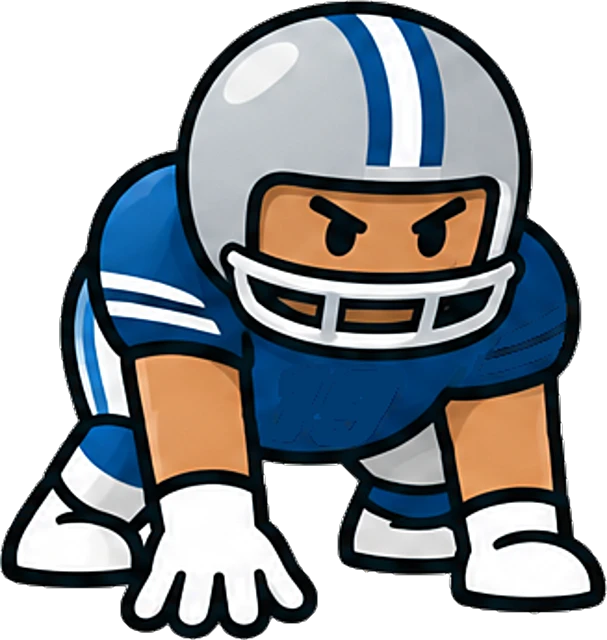
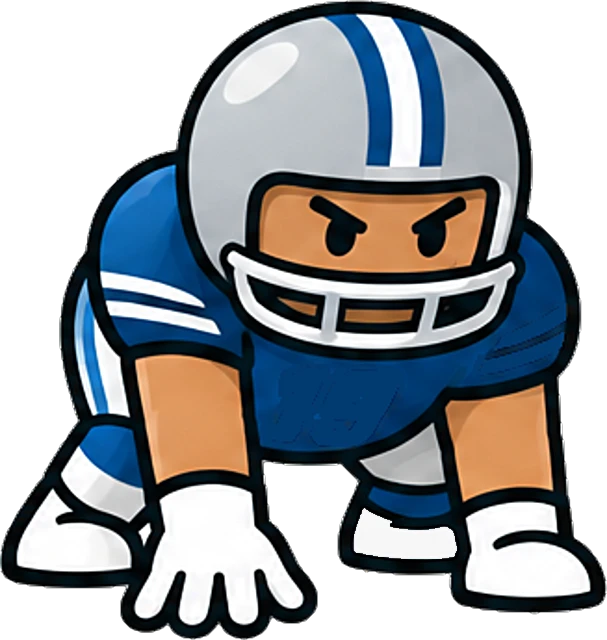
2.24.4: cards - gloves, wristbands and shoes no longer take a patch of the helmet colour

Changed region(s): [[0.5634, 0.7812, 0.771, 0.875]]

diff --git a/CARDS.md b/CARDS.md
@@ -286,7 +286,8 @@ With the client's off there is no tile and `data/cards.json` is not copied to th
 ### 8.5 Drawing a card
 
 `tools/cards/build-sprites.mjs` cuts the owner's sheets into `static/cards/<pose>.webp`, 640 pixels tall (an enlargement of the sheets, smoothed
-and re-sharpened so a phone does not show stairs in the outline - v2.24.3): paper cleared,
+and re-sharpened so a phone does not show stairs in the outline - v2.24.3; and with the shaded patches of white
+gloves and shoes listed in `poses.json` whitened, or the browser paints them as helmet - v2.24.4): paper cleared,
 painted number erased, still in the sheets' own blue, grey and tan. `tools/cards/poses.json` maps each
 archetype (and `role`) to a sheet cell. **Look at `build/card-sprites-check.png` after running it**; no test
 can see a half-erased number.

diff --git a/CHANGELOG.md b/CHANGELOG.md
@@ -20,6 +20,16 @@ CLAUDE.md.
 
 ## [Unreleased]
 
+## [2.24.4] - 2026-11-13
+
+Test site only.
+
+### Fixed
+- Cards: gloves, wristbands and shoes no longer pick up a patch of the helmet colour. The shaded part of a
+  white glove is drawn in the helmet's own grey, and where the outline closed round it the recolouring could
+  not tell the two apart - most visibly on the pointing player's fist. Fourteen such patches across nine
+  poses are now whitened when the sprites are built (`tools/cards/poses.json`, "white").
+
 ## [2.24.3] - 2026-11-13
 
 Test site only.
